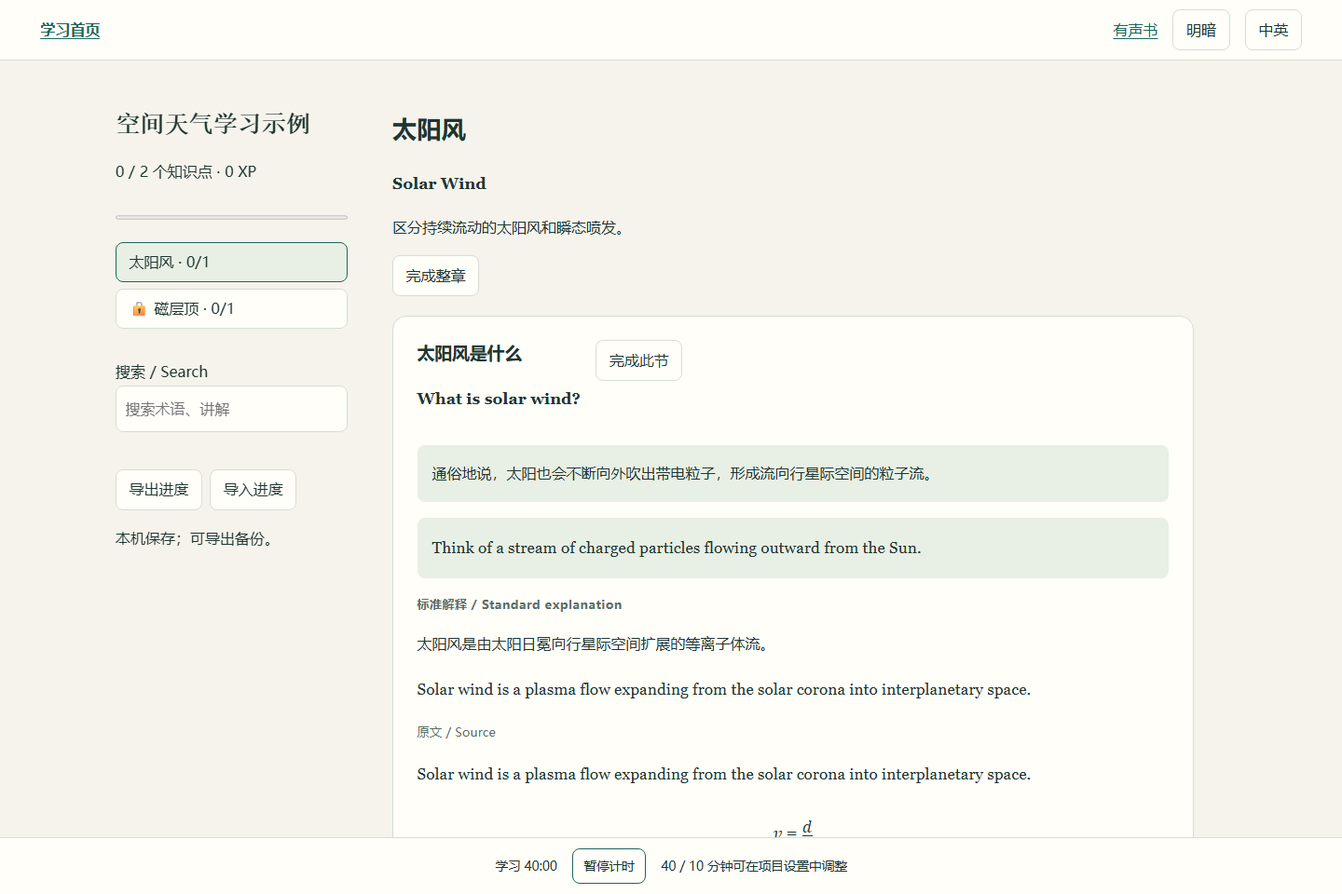
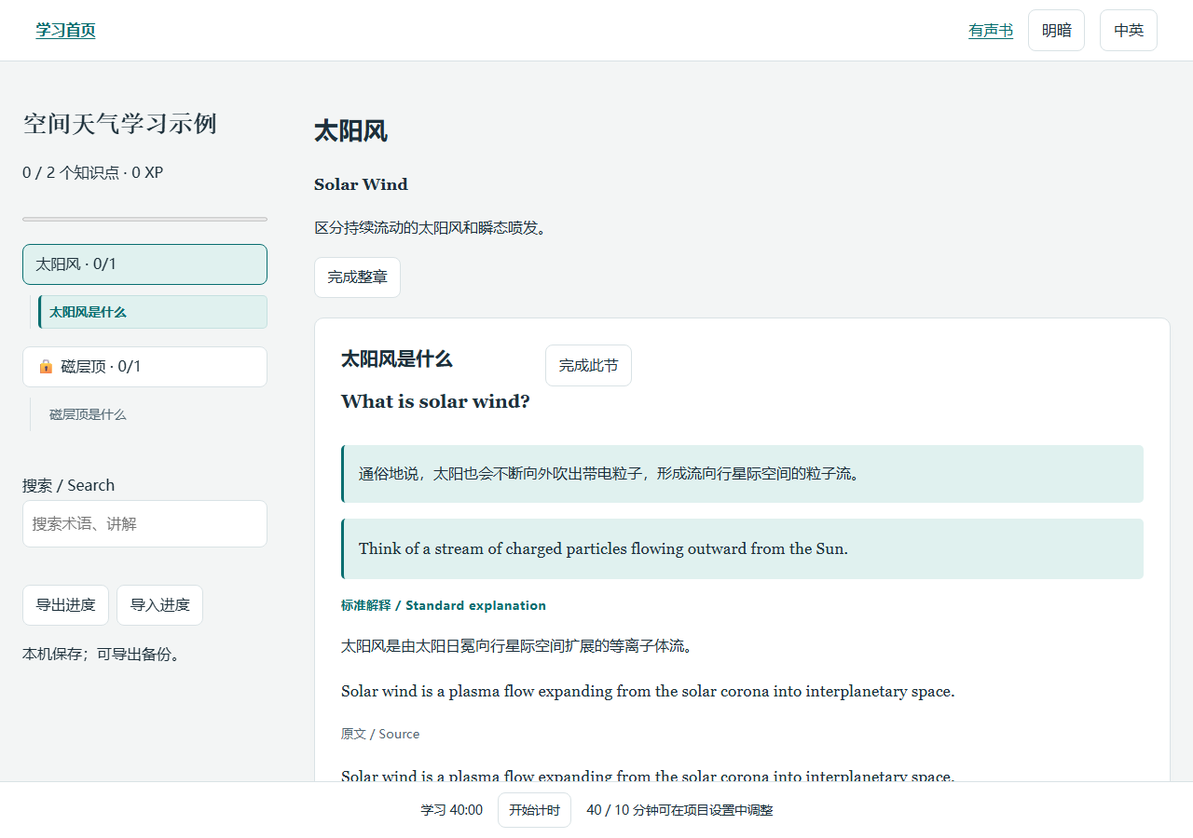
Finish smooth unit navigation, mobile paper controls and source-preserving math presentation
Exercise scientific notation, grouped fractions and negative exponents; keep
search highlighting outside MathML, preserve audio state, and refresh the original
demo screenshot. Add reusable reading guidance and sanitized validation scope.

diff --git a/skills/net-and-audiobook/assets/site/reading/reader.js b/skills/net-and-audiobook/assets/site/reading/reader.js
@@ -4,24 +4,29 @@
   const NS = 'http://www.w3.org/1998/Math/MathML';
   const commands = {alpha:'α',beta:'β',gamma:'γ',delta:'δ',epsilon:'ε',varepsilon:'ϵ',zeta:'ζ',eta:'η',theta:'θ',vartheta:'ϑ',iota:'ι',kappa:'κ',lambda:'λ',mu:'μ',nu:'ν',xi:'ξ',pi:'π',rho:'ρ',sigma:'σ',tau:'τ',upsilon:'υ',phi:'φ',varphi:'ϕ',chi:'χ',psi:'ψ',omega:'ω',Gamma:'Γ',Delta:'Δ',Theta:'Θ',Lambda:'Λ',Xi:'Ξ',Pi:'Π',Sigma:'Σ',Phi:'Φ',Psi:'Ψ',Omega:'Ω',infty:'∞',partial:'∂',nabla:'∇',times:'×',cdot:'·',pm:'±',mp:'∓',gg:'≫',ll:'≪',ge:'≥',geq:'≥',le:'≤',leq:'≤',ne:'≠',neq:'≠',approx:'≈',sim:'∼',propto:'∝',perp:'⊥',parallel:'∥',to:'→'};
   const node = (tag, text, children) => { const n = document.createElementNS(NS, tag); if (text != null) n.textContent = text; if (children) n.append(...children); return n; };
-  const scripts = { '²':'2','³':'3','¹':'1','⁰':'0','⁻':'−','⁺':'+','₀':'0','₁':'1','₂':'2','₃':'3','₄':'4','₅':'5','₆':'6','₇':'7','₈':'8','₉':'9','ₑ':'e','ᵢ':'i','ₚ':'p' };
-  const operators = new Set([...'+−-×·⋅÷=<>≥≤≠≈∼≫≪±∓∝∈∉∑∫∂∇∞⊥∥→|,:;!%']);
+  const scripts = { '²':'2','³':'3','¹':'1','⁰':'0','⁴':'4','⁵':'5','⁶':'6','⁷':'7','⁸':'8','⁹':'9','⁻':'−','⁺':'+','₀':'0','₁':'1','₂':'2','₃':'3','₄':'4','₅':'5','₆':'6','₇':'7','₈':'8','₉':'9','ₑ':'e','ᵢ':'i','ₚ':'p' };
+  const operators = new Set([...'+−-×·⋅÷=<>≥≤≠≈∼≫≪±∓∝∈∉∑∫∮∂∇∞⊥∥⊙→|,:;!%']);
+  const aliasNames='theta|lambda|alpha|sigma|kappa|omega|beta|gamma|delta|epsilon|rho|tau|phi|psi|eta|mu|nu|pi|integral';
   function parseMath(source) {
-    let s = source.replace(/\\([A-Za-z]+)/g, (all, key) => commands[key] || all).replace(/>>/g,'≫').replace(/<</g,'≪').replace(/>=/g,'≥').replace(/<=/g,'≤').replace(/!=/g,'≠');
+    let s = source.replace(/\\([A-Za-z]+)/g, (all, key) => commands[key] || all).replace(new RegExp(`(?<![A-Za-z])(${aliasNames})(?=\\b|_)`,'g'),a=>a==='integral'?'∫':commands[a]).replace(/\bk_BT/g,'k_B T').replace(/(\d)x(?=10(?:\^|[⁰¹²³⁴⁵⁶⁷⁸⁹⁻]))/g,'$1×').replace(/_([₀₁₂₃₄₅₆₇₈₉]+[⊥∥]?)/g,(_,a)=>'_{'+[...a].map(c=>scripts[c]||c).join('')+'}').replace(/>>/g,'≫').replace(/<</g,'≪').replace(/>=/g,'≥').replace(/<=/g,'≤').replace(/!=/g,'≠');
+    s=s.replace(/([A-Za-zΑ-ωµ])([∥⊥])/g,'$1_$2');
     if (/\\/.test(s)) return null; // Unknown commands are review items, never guessed.
     let i = 0, valid = true;
     const skip = () => { while (/\s/.test(s[i] || '') && i < s.length) i++; };
     function atom(script = false) {
       skip(); const c = s[i]; if (!c) return null;
       let n;
-      if ('({['.includes(c)) {
+      if(c==='√'){i++;const inner=atom();if(!inner){valid=false;return null;}n=node('msqrt',null,[inner]);}
+      else if (script && /^[+−-][A-Za-zΑ-ωµ]/.test(s.slice(i))) {i++;const inner=atom(true);if(!inner){valid=false;return null;}return node('mrow',null,[node('mo',c==='-'?'−':c),inner]);}
+      else if ('({['.includes(c)) {
+        if(script&&c==='{'){const close=s.indexOf('}',i),label=s.slice(i+1,close);if(close>i&&/^along\s+[A-Za-zΑ-ω][\u0302]?$/.test(label)){i=close+1;return node('mtext',label);}}
         i++; const end = {'(':')','{':'}','[':']'}[c], inner = row(end); if (s[i] !== end) { valid=false; return null; } i++;
         n = c === '{' ? inner : node('mrow',null,[node('mo',c),inner,node('mo',end)]);
       } else if (script && /^[+−-]\d/.test(s.slice(i))) { const m=s.slice(i).match(/^[+−-]\d+(?:\.\d+)?/)[0];i+=m.length;n=node('mn',m.replace('-','−')); }
       else if (/\d/.test(c)) { const m = s.slice(i).match(/^\d+(?:\.\d+)?/)[0]; i += m.length; n=node('mn',m); }
-      else if (/[A-Za-zΑ-ωϵϑϕℓ]/.test(c)) {
+      else if (/[A-Za-zΑ-ωµϵϑϕℓ]/.test(c)) {
         let m;
-        if (script) m = s.slice(i).match(/^[A-Za-zΑ-ωϵϑϕℓ]+/)[0];
+        if (script) m = s.slice(i).match(/^[A-Za-zΑ-ωµϵϑϕℓ]+/)[0];
         else m = s.slice(i).match(/^(?:sin|cos|tan|exp|log|ln|max|min|cm|km|keV|MeV|eV|nT|nPa|Pa|mHz|Hz|kg)(?![A-Za-z])/)?.[0] || c;
         i += m.length; n=node('mi',m); if (m.length > 1) n.setAttribute('mathvariant','normal');
       } else if (operators.has(c)) { i++; n=node('mo',c === '-' ? '−' : c); }
@@ -30,28 +35,39 @@
       let sub=null,sup=null;
       while (i < s.length) {
         if (s[i] === '_' || s[i] === '^') { const op=s[i++], value=atom(true); if (!value || (op==='_'?sub:sup)) { valid=false;return null; } if(op==='_')sub=value;else sup=value; }
+        else if(s[i]==='′'||s[i]==="'"){i++;sup=node('mo','′');}
+        else if(s[i]==='\u0302'){i++;n=node('mover',null,[n,node('mo','^')]);n.setAttribute('accent','true');}
         else if (scripts[s[i]]) { const isSub='₀₁₂₃₄₅₆₇₈₉ₑᵢₚ'.includes(s[i]); let value='';while(scripts[s[i]] && '₀₁₂₃₄₅₆₇₈₉ₑᵢₚ'.includes(s[i])===isSub)value+=scripts[s[i++]];if(isSub)sub=node('mi',value);else sup=node(/^\d+$/.test(value)?'mn':'mrow',value); }
         else break;
       }
       return sub && sup ? node('msubsup',null,[n,sub,sup]) : sub ? node('msub',null,[n,sub]) : sup ? node('msup',null,[n,sup]) : n;
     }
     function row(end) {
-      const children=[];
+      const children=[],ranges=[];
       while(i<s.length) { skip(); if(i>=s.length || s[i]===end)break;
-        if(s[i]==='/') { i++;const a=children.pop(),b=atom();if(!a||!b){valid=false;break;}children.push(node('mfrac',null,[a,b])); }
-        else { const n=atom();if(!n)break;children.push(n); }
+        if(s[i]==='/') {
+          i++;let meta=ranges.pop(),a=children.pop();if(!a||!meta?.factor){valid=false;break;}
+          const numerator=[a];while(ranges.length&&ranges.at(-1).factor&&ranges.at(-1).end===meta.start){meta=ranges.pop();numerator.unshift(children.pop());}
+          skip();const denominator=[],first=atom();if(!first){valid=false;break;}denominator.push(first);
+          while(i<s.length&&!/\s|[\/)\]}+−=<>≥≤≠≈≫≪±∓,;:!-]/.test(s[i])){const factor=atom();if(!factor)break;denominator.push(factor);}
+          children.push(node('mfrac',null,[node('mrow',null,numerator),node('mrow',null,denominator)]));ranges.push({start:meta.start,end:i,factor:true});
+        }
+        else { const start=i,c=s[i],n=atom();if(!n)break;children.push(n);ranges.push({start,end:i,factor:!operators.has(c)||'∂∇∫∮∑∞'.includes(c)}); }
       }
       return node('mrow',null,children);
     }
     const result=row(); return valid && i===s.length && result.childNodes.length ? result : null;
   }
   // A math island must contain explicit notation. Ordinary words, filenames and code stay text.
-  const base = String.raw`(?:\\[A-Za-z]+|cm|km|keV|MeV|eV|nT|nPa|Pa|mHz|Hz|kg|[A-Za-zΑ-ωϵϑϕℓ]|\d+(?:\.\d+)?)`;
-  const script = String.raw`(?:[_^](?:\{[^{}\n]+\}|[A-Za-zΑ-ωϵϑϕℓ]+|[+−-]?\d+)|[²³¹⁰⁻⁺₀₁₂₃₄₅₆₇₈₉ₑᵢₚ]+)`;
-  const atomPattern = String.raw`(?<![A-Za-z0-9_.\\])${base}(?:${script})*(?![A-Za-z0-9_.])`;
+  const base = String.raw`(?:\\[A-Za-z]+|${aliasNames}|sin|cos|tan|exp|log|ln|cm|km|keV|MeV|eV|nT|nPa|Pa|mHz|Hz|kg|[A-Za-zΑ-ωµϵϑϕℓ]{1,3}(?=[_^])|[A-Za-zΑ-ωµϵϑϕℓ∫∮∑∂∇√]|\d+(?:\.\d+)?)`;
+  const script = String.raw`(?:[_^](?:\{[^{}\n]+\}|\([^()\n]+\)|[+−-]?[A-Za-zΑ-ωµϵϑϕℓ]+|[+−-]?\d+|[⊥∥∇⊙]|[₀₁₂₃₄₅₆₇₈₉]+[⊥∥]?)|[²³¹⁰⁴⁵⁶⁷⁸⁹⁻⁺₀₁₂₃₄₅₆₇₈₉ₑᵢₚ]+)`;
+  // The lookahead/backreference makes each atom atomic, avoiding nested backtracking.
+  const atomPattern = String.raw`(?<![A-Za-z0-9_.\\])(?:(?=(${base}(?:${script})*['′\u0302]?))\1)+(?![A-Za-z0-9_]|\.[A-Za-z])`;
   const tokenPattern = new RegExp(`${atomPattern}|${script}|[+−×·⋅÷=<>≥≤≠≈∼≫≪±∓∝⊥∥→/(){}\\[\\]|,:;%!-]`, 'gu');
+  const mathWords=new Set((aliasNames+'|sin|cos|tan|exp|log|ln|cm|km|keV|MeV|eV|nT|nPa|Pa|mHz|Hz|kg|qB|mc|mv|ne|en|ju|uj|dr|ds|dl|dT|dV|dt|Bn|Bt|un').split('|'));
   function islands(text) {
-    const tokens=[...text.matchAll(tokenPattern)], out=[]; let group=[];
+    const scan=text.replace(/https?:\/\/[^\s，。；：！？]+|[A-Za-z0-9_./-]+\.(?:pdf|json|js|css|html|py|png|jpg|mp3|zip)\b/gi,m=>' '.repeat(m.length)).replace(/(\d)x(?=10(?:\^|[⁰¹²³⁴⁵⁶⁷⁸⁹⁻]))/g,'$1×');
+    const tokens=[...scan.matchAll(tokenPattern)], out=[]; let group=[];
     const flush=()=>{if(!group.length)return;let a=group[0].index,b=group.at(-1).index+group.at(-1)[0].length;
       let value=text.slice(a,b);
       const wordStart=text.slice(0,a).search(/[^\s，。；：！？（）]+$/),wordEnd=text.slice(b).search(/[\s，。；：！？（）]/);
@@ -64,8 +80,9 @@
         while(value.startsWith('(')&&[...value].filter(c=>c==='(').length>[...value].filter(c=>c===')').length){a++;value=value.slice(1);}
         while(value.endsWith(')')&&[...value].filter(c=>c===')').length>[...value].filter(c=>c==='(').length){b--;value=value.slice(0,-1);}
         if(value && parseMath(value))out.push({start:a,end:b,source:value});
+        else for(const t of group){if(/[_^]/.test(t[0])&&parseMath(t[0]))out.push({start:t.index,end:t.index+t[0].length,source:t[0]});}
       }group=[];};
-    for(const t of tokens){if(group.length && !/^\s*$/.test(text.slice(group.at(-1).index+group.at(-1)[0].length,t.index)))flush();group.push(t);}flush();return out;
+    for(const t of tokens){if(/^[A-Za-z]{2,}$/.test(t[0])&&!mathWords.has(t[0])){flush();continue;}if(group.length && !/^\s*$/.test(text.slice(group.at(-1).index+group.at(-1)[0].length,t.index)))flush();group.push(t);}flush();return out;
   }
   const skipSelector='script,style,svg,math,pre,code,kbd,samp,textarea,input,select,[contenteditable],[data-no-math],.page-text,.img-missing-name';
   function typeset(root=document.body) {
@@ -76,7 +93,7 @@
       for(const m of found){f.append(document.createTextNode(t.data.slice(last,m.start)));const math=node('math',null,[parseMath(m.source)]);math.classList.add('reader-math');math.setAttribute('display','inline');math.setAttribute('aria-label',m.source);math.dataset.mathSource=m.source;f.append(math);last=m.end;count++;}f.append(document.createTextNode(t.data.slice(last)));t.replaceWith(f);
     }return count;
   }
-  let adapter=null, units=[], links=new Map(), current='', frame=0, hold=null, navQuietUntil=0, refreshQueued=false;
+  let adapter=null, units=[], links=new Map(), current='', frame=0, hold=null, holdTimer=0, navQuietUntil=0, followTimer=0, refreshQueued=false;
   const reduced=()=>matchMedia('(prefers-reduced-motion: reduce)').matches;
   const visible=n=>!n.hidden && n.getClientRects().length>0;
   function headerOffset(){const h=document.querySelector('.topbar')||document.querySelector('body > header');const b=h?.getBoundingClientRect().bottom||0;return Math.max(0,b)+20;}
@@ -94,8 +111,15 @@
       for(const u of c.units){const a=document.createElement('a');a.href='#'+encodeURIComponent(u.id);a.dataset.readerUnit=u.id;a.dataset.readerChapterId=c.id;a.textContent=u.title_zh;list.append(a);}b.after(list);
     }
   }
+  function paperMenu(){
+    if(adapter?.kind!=='paper')return;let b=document.getElementById('readerContents');
+    if(!b){b=document.createElement('button');b.id='readerContents';b.type='button';b.className='tool-btn';b.textContent='目录';b.setAttribute('aria-expanded','false');b.setAttribute('aria-controls','paper-reader-nav');b.onclick=()=>{const open=document.body.classList.toggle('reader-toc-open');b.setAttribute('aria-expanded',String(open));if(open)requestAnimationFrame(()=>follow(links.get(current),true));};(document.querySelector('.topbar-tools')||document.querySelector('.topbar')).append(b);}
+    if(b.hidden!==!adapter.nav)b.hidden=!adapter.nav;if(adapter.nav)adapter.nav.id='paper-reader-nav';else document.body.classList.remove('reader-toc-open');
+  }
+  function closePaperMenu(){document.body.classList.remove('reader-toc-open');document.getElementById('readerContents')?.setAttribute('aria-expanded','false');}
   function follow(link,force=false){
-    if(!adapter?.nav || !visible(link) || (!force&&performance.now()<navQuietUntil))return;
+    if(!adapter?.nav || !link || !visible(link))return;
+    if(!force&&performance.now()<navQuietUntil){clearTimeout(followTimer);followTimer=setTimeout(()=>follow(links.get(current)),navQuietUntil-performance.now()+24);return;}
     const box=adapter.nav.getBoundingClientRect(),r=link.getBoundingClientRect(),pad=24;
     if(r.top>=box.top+pad && r.bottom<=box.bottom-pad)return;
     const target=adapter.nav.scrollTop+r.top-box.top-Math.max(pad,(box.height-r.height)*.42);
@@ -121,21 +145,23 @@
   const schedule=()=>{if(!frame)frame=requestAnimationFrame(spy);};
   function refresh(){refreshQueued=false;projectLinks();
     const synopsis=document.querySelector('.topbar .sub-title'),intro=document.querySelector('.content .intro');
-    if(synopsis&&intro&&!intro.querySelector('.course-synopsis')){const copy=document.createElement('p');copy.className='course-synopsis';copy.append(...[...synopsis.childNodes].map(n=>n.cloneNode(true)));intro.append(copy);}
-    typeset(document.body);adapter=identify();units=adapter?[...document.querySelectorAll(adapter.selector)]:[];links=new Map(adapter?[...document.querySelectorAll(adapter.link)].map(n=>[adapter.linkId(n),n]):[]);
+    if(synopsis&&intro&&!intro.querySelector('.course-synopsis')&&!intro.textContent.replace(/\s/g,'').includes((synopsis.firstElementChild||synopsis).textContent.replace(/\s/g,''))){const copy=document.createElement('p');copy.className='course-synopsis';copy.append(...[...synopsis.childNodes].map(n=>n.cloneNode(true)));intro.append(copy);}
+    typeset(document.body);adapter=identify();units=adapter?[...document.querySelectorAll(adapter.selector)]:[];links=new Map(adapter?[...document.querySelectorAll(adapter.link)].map(n=>[adapter.linkId(n),n]):[]);paperMenu();
     if(adapter){document.documentElement.dataset.reader=adapter.kind;if(adapter.nav){adapter.nav.classList.add('reader-nav');if(!adapter.nav.dataset.readerEvents){adapter.nav.dataset.readerEvents='1';for(const e of ['wheel','touchstart','pointerdown','keydown'])adapter.nav.addEventListener(e,()=>{navQuietUntil=performance.now()+1600;},{passive:true});}}}
     setOffset();schedule();
   }
   function queueRefresh(){if(!refreshQueued){refreshQueued=true;requestAnimationFrame(refresh);}}
-  function navigate(id){const n=document.getElementById(id);if(!n || !visible(n))return false;hold={id,until:performance.now()+1000};activate(id,true);
+  function navigate(id){const n=document.getElementById(id);if(!n || !visible(n))return false;hold={id,until:performance.now()+1000};clearTimeout(holdTimer);holdTimer=setTimeout(()=>{hold=null;schedule();},1020);activate(id,true);
     const top=window.scrollY+n.getBoundingClientRect().top-headerOffset();window.scrollTo({top:Math.max(0,top),behavior:reduced()?'instant':'smooth'});return true;
   }
   document.addEventListener('click',e=>{const a=e.target.closest('.toc-sub,[data-scroll-block],[data-reader-unit]');if(!a||e.button!==0||e.ctrlKey||e.metaKey||e.shiftKey||e.altKey)return;
     const id=a.dataset.scrollBlock||a.dataset.readerUnit||decodeURIComponent(a.hash.slice(1));
     if(a.dataset.readerUnit){const b=document.querySelector(`#chapters [data-chapter="${CSS.escape(a.dataset.readerChapterId)}"]`);b?.click();requestAnimationFrame(()=>{refresh();navigate(id);if(visible(document.getElementById(id)))history.replaceState(null,'','#'+encodeURIComponent(id));});}
-    else if(navigate(id)){if(!a.dataset.scrollBlock)history.replaceState(null,'','#'+encodeURIComponent(id));document.body.classList.remove('toc-open');document.getElementById('tocBtn')?.setAttribute('aria-expanded','false');}
+    else if(navigate(id)){if(!a.dataset.scrollBlock)history.replaceState(null,'','#'+encodeURIComponent(id));document.body.classList.remove('toc-open');document.getElementById('tocBtn')?.setAttribute('aria-expanded','false');closePaperMenu();}
     else return;e.preventDefault();e.stopImmediatePropagation();
   },true);
+  document.addEventListener('click',e=>{if(document.body.classList.contains('reader-toc-open')&&!e.target.closest('.study-nav,#readerContents'))closePaperMenu();});
+  document.addEventListener('keydown',e=>{if(e.key==='Escape')closePaperMenu();});
   for(const event of ['scroll','resize','hashchange'])window.addEventListener(event,event==='resize'?()=>{setOffset();schedule();}:schedule,{passive:true});
   for(const event of ['wheel','touchstart','pointerdown','keydown'])window.addEventListener(event,()=>{hold=null;},{passive:true});
   const observer=new MutationObserver(records=>{if(records.some(r=>r.type==='childList'&&[...r.addedNodes].some(n=>n.nodeType===1&&!n.matches('math,.reader-unit-list')&&!n.closest('math')) || r.type==='attributes'&&['hidden','data-lang'].includes(r.attributeName)))queueRefresh();});
@@ -143,6 +169,6 @@
   observer.observe(document.documentElement,{attributes:true,attributeFilter:['data-lang']});
   const header=document.querySelector('.topbar')||document.querySelector('body > header');if(header&&window.ResizeObserver)new ResizeObserver(()=>{setOffset();schedule();}).observe(header);
   document.addEventListener('load',schedule,true);document.addEventListener('toggle',schedule,true);
-  window.NBAReader={version:'2026.10.31',typeset,parseMath,refresh,navigate,current:()=>current,unresolved:(root=document.body)=>{const out=[],w=document.createTreeWalker(root,NodeFilter.SHOW_TEXT);while(w.nextNode()){const n=w.currentNode;if(/[_^\\]/.test(n.data)&&!n.parentElement.closest(skipSelector))out.push(n.data.trim());}return out;}};
+  window.NBAReader={version:'2026.10.31',typeset,parseMath,refresh,navigate,current:()=>current,unresolved:(root=document.body)=>{const out=[],w=document.createTreeWalker(root,NodeFilter.SHOW_TEXT);while(w.nextNode()){const n=w.currentNode,prose=n.data.replace(/https?:\/\/[^\s，。；：！？]+|[A-Za-z0-9_./-]+\.(?:pdf|json|js|css|html|py|png|jpg|mp3|zip)\b/gi,'');if(/[_^\\]/.test(prose)&&!n.parentElement.closest(skipSelector))out.push(n.data.trim());}return out;}};
   refresh();
 })();

diff --git a/skills/net-and-audiobook/assets/site/reading/reader.css b/skills/net-and-audiobook/assets/site/reading/reader.css
@@ -3,12 +3,13 @@
 :root[data-theme=dark]{--reader-bg:#131c23;--reader-paper:#1b2832;--reader-soft:#20313d;--reader-ink:#e5edf1;--reader-muted:#afc1cc;--reader-line:#354956;--reader-accent:#83d5ca;--reader-active:#24423f;--reader-warm:#332d23;--reader-warm-ink:#f0ce89}
 :root[data-reader]{scroll-padding-top:var(--reader-offset);--bg:var(--reader-bg);--panel:var(--reader-paper);--panel-2:var(--reader-soft);--paper:var(--reader-paper);--text:var(--reader-ink);--ink:var(--reader-ink);--muted:var(--reader-muted);--border:var(--reader-line);--line:var(--reader-line);--accent:var(--reader-accent);--blue:var(--reader-accent);--accent-soft:var(--reader-active);--soft:var(--reader-active);--nc-bg:var(--reader-warm);--nc-ink:var(--reader-warm-ink);--maxw:1440px}
 html[data-reader] body{background:var(--reader-bg);color:var(--reader-ink);font-size:16px;line-height:1.85}
-.reader-math{font-family:"Times New Roman","Cambria Math","STIX Two Math",serif;font-size:1.08em;vertical-align:baseline;white-space:nowrap;color:inherit}
+.reader-math{font-family:"Times New Roman","Cambria Math","STIX Two Math",serif;font-size:1.08em;vertical-align:middle;white-space:nowrap;color:inherit;display:inline-block;max-width:100%;overflow-x:auto;overflow-y:hidden}
 .reader-nav{overscroll-behavior:contain;scrollbar-width:thin;scrollbar-color:var(--reader-line) transparent;scrollbar-gutter:stable;overflow-anchor:none}
 .reader-nav a,.reader-nav button{transition:background-color .15s,color .15s,border-color .15s;overflow-wrap:anywhere}
 .reader-nav .reader-current,.reader-nav .reader-current:hover,.block-nav a.reader-current{position:relative;background:var(--reader-active)!important;color:var(--reader-accent)!important;border-left:3px solid var(--reader-accent)!important;border-radius:5px;font-weight:750;box-shadow:inset 0 0 0 1px color-mix(in srgb,var(--reader-accent) 12%,transparent)}
 .reader-nav .reader-current:focus-visible{outline:2px solid var(--reader-accent);outline-offset:2px}
 .reader-context>.toc-link{font-weight:700;color:var(--reader-ink)!important;background:transparent!important}
+#readerContents{display:none}
 .toc-row.active>.toc-link{background:transparent!important;color:var(--reader-muted);font-weight:600}
 .toc-row.read>.toc-link{color:var(--reader-muted)}
 html[data-reader=course] .layout{gap:24px;padding:24px}
@@ -16,6 +17,9 @@ html[data-reader=course] .toc{top:var(--reader-offset);max-height:calc(100dvh - 
 html[data-reader=course] .toc-link{font-size:.9rem;padding:9px 8px}
 html[data-reader=course] .toc-sub{font-size:.85rem;line-height:1.7;padding:7px 10px;margin:3px 0;border-left:3px solid transparent;color:var(--reader-muted)}
 html[data-reader=course] .toc-subs{margin-left:8px;padding-left:7px}
+html[data-reader=course] .toc-sub .t-en{display:block;font-size:.76rem;font-weight:400;line-height:1.5;margin-top:3px}
+html[data-reader=course] .block>h4 .t-en,html[data-reader=course] .btn .t-en{margin-left:6px;font-size:.72rem;font-weight:500}
+html[data-reader=course] .unit-head h3 .t-en{display:block;font-size:.95rem;font-weight:500;color:var(--reader-muted);margin-top:6px}
 html[data-reader=course] .topbar{background:var(--reader-paper);padding:10px 24px;gap:12px}
 html[data-reader=course] .topbar-main{flex:1 1 300px;min-width:0}
 html[data-reader=course] .topbar-title{min-width:0}
@@ -65,5 +69,6 @@ html[data-reader=project] .label{color:var(--reader-accent);font-weight:750}
 @media(max-width:1000px){html[data-reader=paper] .study-shell{grid-template-columns:240px minmax(0,1fr)}html[data-reader=paper] .sentence-pair{grid-template-columns:1fr}html[data-reader=paper] .sentence-pair>div+div{border-left:0;border-top:1px dashed var(--reader-line)}}
 @media(max-width:899px){html[data-reader=course] .toc{top:var(--reader-offset);max-height:calc(100dvh - var(--reader-offset));bottom:0}html[data-reader=course] .layout{padding:14px}html[data-reader=course] .topbar{padding:9px 12px}html[data-reader=course] .chapter{padding:16px}html[data-reader=course] .unit{padding:16px}}
 @media(max-width:760px){html[data-reader=paper] .study-shell{display:block;padding:12px}html[data-reader=paper] .study-nav{position:relative;top:0;max-height:280px;margin-bottom:16px}html[data-reader=paper] .block-head{padding:16px}html[data-reader=paper] .sentence-pair>div{padding:16px}html[data-reader=project] .shell{display:block}html[data-reader=project] #nav{max-height:65dvh}html[data-reader=project] .unit{padding:18px}}
+@media(max-width:840px){html[data-reader=paper] #readerContents{display:inline-flex}html[data-reader=paper] #readerContents[hidden]{display:none}html[data-reader=paper] .top-search{display:block;flex:1 1 100%;order:5;margin:0}html[data-reader=paper] .top-search input{width:100%}html[data-reader=paper] .topbar-tools{flex-wrap:wrap}html[data-reader=paper] .study-nav{position:fixed;z-index:350;top:var(--reader-offset);left:10px;width:min(350px,calc(100vw - 20px));max-height:calc(100dvh - var(--reader-offset) - 12px);margin:0;visibility:hidden;transform:translateX(-112%);transition:transform .2s ease,visibility .2s;box-shadow:0 12px 40px #0003}html[data-reader=paper] body.reader-toc-open .study-nav{visibility:visible;transform:none}html[data-reader=paper] .block-nav{display:grid;grid-template-columns:minmax(0,1fr);overflow:visible}html[data-reader=paper] .block-nav a{border-bottom:0}}
 @media(prefers-reduced-motion:reduce){html{scroll-behavior:auto!important}.reader-nav *{transition:none!important}}
 @media print{.reader-nav{display:none!important}html[data-reader] body{background:white;color:black}.reader-math{color:black}}

diff --git a/skills/net-and-audiobook/scripts/reader_check.py b/skills/net-and-audiobook/scripts/reader_check.py
@@ -10,7 +10,7 @@ from make_demo import make
 from build_site import build
 
 SKILL=Path(__file__).resolve().parents[1]
-CASES=['L >> λ_D','N_D >> 1','ω_pe τ > 1','v_th = (k_B T_e / m_e)^{1/2}','T_e/T_i','R^2','B_z','\\omega_{pe} > 1','cm^-3']
+CASES=['L >> λ_D','N_D >> 1','ω_pe τ > 1','v_th = (k_B T_e / m_e)^{1/2}','T_e/T_i','R^2','B_z','\\omega_{pe} > 1','cm^-3','v_⊥²/B','1.99x10^30','k_BT_e','θ_Bn','sigma_sb','dT/dr = -k_B T_e']
 
 def legacy_fixture(path,kind):
     path.mkdir(parents=True,exist_ok=True)
@@ -70,6 +70,7 @@ def run(out,executable=None):
                                     assert page.locator('[aria-current="location"]').count()==1,'Multiple active knowledge points'
                                     assert page.evaluate('document.documentElement.scrollWidth<=innerWidth+2'),'Page overflow'
                                 if kind=='project' and width==390:page.locator('#menu').click()
+                                if kind=='paper' and width==390:page.locator('#readerContents').click()
                                 target=page.locator('[data-reader-unit],.toc-sub,[data-scroll-block]').nth(count//3);id=target.get_attribute('data-reader-unit') or target.get_attribute('data-scroll-block') or target.get_attribute('href')[1:];target.click()
                                 page.wait_for_function('id=>window.NBAReader.current()===id',arg=id)
                                 page.wait_for_function("id=>Math.abs(document.getElementById(id).getBoundingClientRect().top-parseFloat(getComputedStyle(document.documentElement).getPropertyValue('--reader-offset')))<5",arg=id)
@@ -79,7 +80,9 @@ def run(out,executable=None):
                                 assert first_unit.locator('math.reader-math msub').count()>=5,'Subscripts missing'
                                 assert first_unit.locator('math.reader-math msup').count()>=2,'Powers missing'
                                 assert first_unit.locator('math.reader-math mfrac').count()>=1,'Fractions missing'
-                                assert first_unit.locator('math[data-math-source="cm^-3"] msup').count()==1 and first_unit.locator('math[data-math-source="cm^-3"] msup').inner_text().replace('\n','').replace(' ','').endswith('−3'),'Negative exponent changed meaning'
+                                assert first_unit.locator('math[data-math-source="cm^-3"] msup').count()==1 and first_unit.locator('math[data-math-source="cm^-3"] msup').text_content().replace('\n','').replace(' ','').endswith('−3'),'Negative exponent changed meaning'
+                                derivative=first_unit.locator('math[data-math-source="dT/dr = -k_B T_e"] mfrac').first
+                                assert derivative.locator(':scope > mrow').all_text_contents()==['dT','dr'],'Derivative numerator/denominator changed meaning'
                                 if kind!='project':
                                     assert first_unit.locator('code').inner_text()=='n_e report_data.json','Code was typeset'
                                     assert first_unit.locator('a').inner_text()=='source_file.json','Filename was changed'

diff --git a/quality/READING_UI.md b/quality/READING_UI.md
@@ -1,0 +1,15 @@
+# 阅读界面检查记录
+
+本次变更为知识点级目录、当前项跟随、明暗配色与行内 MathML。音频引擎、声音参数和音频版本规则保持不变；渲染资源更新会刷新网页应用壳缓存。
+
+## 可复现检查
+
+`scripts/reader_check.py` 使用原创内容测试新模板、既有课程和论文三种结构，分别通过 HTTP/file、1280/390 宽度检查。每种结构包含长目录与首、中、末知识点定位；同时检查唯一当前项、侧栏独立滚动、减少动画偏好、主题、恢复位置、负指数、分式和代码/文件名保护。论文手机目录使用可关闭的面板。
+
+特别增加 `dT/dr` 的完整分子/分母检查，以及更换渲染资源时更新缓存但保留音频版本的契约测试。Windows 已执行长目录矩阵；GitHub Actions 对同一公开夹具重复检查。每个 Actions 运行都附截图与 JSON 报告。
+
+## 实际站点检查范围
+
+私有来源案例另行覆盖 14 门课程、358 个知识点、330 个原有 SVG 公式，以及论文 6 个模块、101 个打卡块。课程 SVG 内容保持字节一致；论文 27 条原有公式及来源图仍可核对。对正文、目录、图注中的原始数学写法进行残留扫描，并在项目中对照原图单独重排损坏的算法段落。
+
+实际材料、截图、算法正文、音频、用户配置及私有发布日志均不进入本仓库。这里只提供去标识化范围说明；发布验收仍以各站点绑定文件哈希的私有检查记录为准。原生 MathML 的自动检查不证明数学等价，仍须逐项核对来源。

diff --git a/skills/net-and-audiobook/references/formulas.md b/skills/net-and-audiobook/references/formulas.md
@@ -22,6 +22,8 @@
 
 发布前对实际页面遍历可见文本的 `_`、`^`、反斜杠残留并逐条分类，不把代码/文件名误判成公式，也不把未识别的数学串静默放过。可用 `NBAReader.unresolved()` 收集线索，再人工核对，不能把它当成语义证明。搜索高亮必须跳过 MathML、SVG 和 annotation；检索可结合原始 `data-math-source`，不能拆坏公式节点。
 
+特别核对负指数、乘积与分式的结合范围：`cm^-3` 的负号必须在上标内，`dT/dr` 的分子分母必须各自完整，不能把乘积的一部分移到分式外而改变等价关系。原件里的复合变量缩写、丢失的下标或 OCR 残码应在项目内参照原图单独校订，不能扩成对其他论文的全局字母替换规则。长行内式须能在手机宽度内横向查看，不能靠裁掉内容隐藏溢出。
+
 JSON里的LaTeX反斜杠需要正确转义：未转义的f/r/t/b会变成控制字符。遇到formfeed、carriage return、tab等先拒绝并回源，不用正则猜回原公式。不要把数学向量粗体、hat、下标零/字母o一律替换。
 
 若原件疑似错字，保留原图并在note写“原式/本页采用/理由/证据”。历史案例包括val/tal、quiet/quiat、损坏的重构权重符号；这些不是允许批量修正其他论文的通用规则。μ_o/μ_0、n/ρ、g与其向量形式都必须逐例核对。

diff --git a/README.md b/README.md
@@ -141,7 +141,7 @@ Windows的13项契约测试、HTTP/file × 桌面/手机四格浏览器检查，
 
 默认模板在本机保存进度。云同步、原站SVG公式等扩展按项目保留并测试；升级现成网站前先记录功能基线。原文、成品录音、模型与私人配置不包含在这个仓库中。
 
-新版阅读层及长目录检查见 [阅读界面升级说明](docs/READING_UI.md)。原创测试覆盖新模板、既有课程和论文三种结构；它们不能替代在实际材料上的公式核对与部署验收。
+新版阅读层及长目录检查见 [阅读界面升级说明](docs/READING_UI.md) 和 [界面检查记录](quality/READING_UI.md)。原创测试覆盖新模板、既有课程和论文三种结构；它们不能替代在实际材料上的公式核对与部署验收。
 
 ## 这次 README 用了哪些 skill
 
